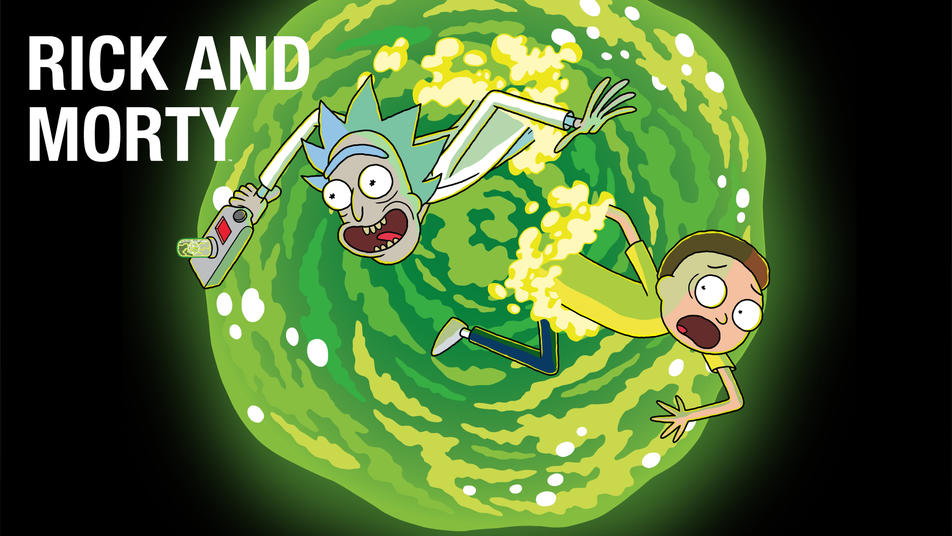
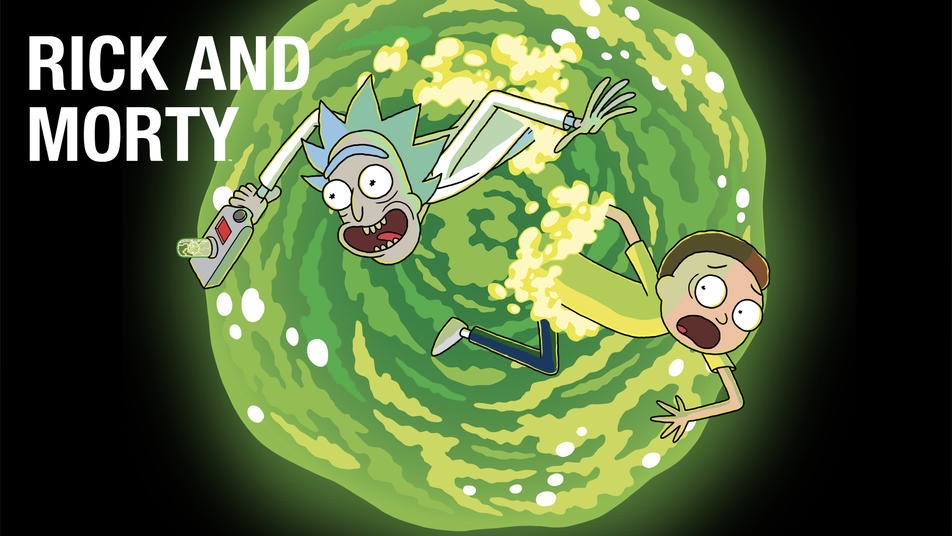
优化图片和格式

diff --git a/index.html b/index.html
@@ -12,80 +12,103 @@
     </style>
   </head>
   <body>
-    <h1>瑞克和莫蒂</h1>
-    <p>
-      天才兼疯子科学家Rick在失踪多年后突然回到女儿Beth的身边，并且在她的车库里搞了一个科学实验室。Rick有一把“传送门枪”，可以穿越到宇宙的各个次元。孙子Morty莫名其妙就成了他的助手，经常被拖进他的自制太空船内，跟他一同开展各种疯狂刺激的宇宙冒险。女儿女婿对他的疯狂行为感到不满，却又对这个天才科学家无可奈何。
-    </p>
-    <h2>播出信息</h2>
-    <ul>
-      <li>2013年12月2日，第一季首播；2014年1月，该剧宣布推出第二季</li>
-      <li>
-        2015年7月26日，第二季首播；2015年8月，AdultSwim续订了第三季，共10集
-      </li>
-      <li>
-        2017年4月1日，第三季首播；2018年5月，《瑞克和莫蒂》一口气续订了70集
-      </li>
-      <li>2019年11月10日，第四季首播。</li>
-    </ul>
-    <h2>获奖情况</h2>
-    <ol>
-      <li>2015年，安妮奖《最佳动画电视制作》提名</li>
-      <li>2017年，青少年票选奖《电视票选奖：动画类》提名</li>
-      <li>2018年，安妮奖《最佳动画电视制作》获奖</li>
-    </ol>
-    <h2>主要人物</h2>
-    <table>
-      <thead>
-        <tr>
-          <th>角色</th>
-          <th>关系</th>
-          <th>简介</th>
-        </tr>
-      </thead>
-      <tbody>
-        <tr>
-          <td>瑞克</td>
-          <td>莫蒂的外公</td>
-          <td>
-            一个奇怪和酗酒的疯狂科学家，使得他女儿的家人担心这会对莫蒂的安全造成威胁
-          </td>
-        </tr>
-        <tr>
-          <td>莫蒂</td>
-          <td>莫蒂他自己</td>
-          <td>善良但容易受伤害的14岁少年，经常被卷入Rick的疯狂冒险</td>
-        </tr>
-        <tr>
-          <td>夏末</td>
-          <td>莫蒂的姐姐</td>
-          <td>一个更传统和经常肤浅的少女，痴迷于改善她与同龄人的地位</td>
-        </tr>
-        <tr>
-          <td>贝丝</td>
-          <td>莫蒂的母亲</td>
-          <td>主要医治马的专业兽医，对于自己的婚姻生活并不满意</td>
-        </tr>
-        <tr>
-          <td>杰瑞</td>
-          <td>莫蒂的父亲</td>
-          <td>缺乏安全感、爱发牢骚，是家中最反对瑞克影响他家人的人</td>
-        </tr>
-      </tbody>
-    </table>
-    <h2>动画剧照</h2>
-    <div><img width="400" src="images/r&m1.jpg" alt="图一" /></div>
-    <div><img width="400" src="images/r&m2.jpg" alt="图二" /></div>
-    <div><img width="400" src="images/r&m3.jpg" alt="图三" /></div>
-    <h2>发行情况</h2>
-    <p>
-      《瑞克和莫蒂》已被Adult Swim在iTunes、Google
-      Play、Amazon、YouTube和Vudu上发行。
-    </p>
-    <p>该剧集也能透过有线电视提供商登录的方式在官方网站上收看。</p>
-    <p>
-      有些集数可在Adult Swim网站上免费播放，其余的则需要美国有线订阅才能收看。
-    </p>
-    <p>第一季于2015年6月在Hulu上架，第二季则于2016年6月起上架。</p>
-    <p>在部分国家也能透过Netflix来观看全季。</p>
+    <nav>
+      <ol>
+        <li><a href="#r&m">动画简介</a></li>
+        <li><a href="#pictures">动画剧照</a></li>
+        <li><a href="#episodes">播出时间</a></li>
+        <li><a href="#awards">获奖情况</a></li>
+        <li><a href="#characters">主要人物</a></li>
+        <li><a href="#medias">发行情况</a></li>
+      </ol>
+    </nav>
+
+    <section>
+      <h1 id="r&m">瑞克和莫蒂</h1>
+      <p>
+        天才兼疯子科学家Rick在失踪多年后突然回到女儿Beth的身边，并且在她的车库里搞了一个科学实验室。Rick有一把“传送门枪”，可以穿越到宇宙的各个次元。孙子Morty莫名其妙就成了他的助手，经常被拖进他的自制太空船内，跟他一同开展各种疯狂刺激的宇宙冒险。女儿女婿对他的疯狂行为感到不满，却又对这个天才科学家无可奈何。
+      </p>
+    </section>
+    <section>
+      <h2 id="pictures">动画剧照</h2>
+      <div><img width="400" src="images/r&m1.jpg" alt="图一" /></div>
+      <div><img width="400" src="images/r&m2.jpg" alt="图二" /></div>
+      <div><img width="400" src="images/r&m3.jpg" alt="图三" /></div>
+    </section>
+    <section>
+      <h2 id="episodes">播出时间</h2>
+      <ul>
+        <li>2013年12月2日，第一季首播；2014年1月，该剧宣布推出第二季</li>
+        <li>
+          2015年7月26日，第二季首播；2015年8月，AdultSwim续订了第三季，共10集
+        </li>
+        <li>
+          2017年4月1日，第三季首播；2018年5月，《瑞克和莫蒂》一口气续订了70集
+        </li>
+        <li>2019年11月10日，第四季首播。</li>
+      </ul>
+    </section>
+    <section>
+      <h2 id="awards">获奖情况</h2>
+      <ol>
+        <li>2015年，安妮奖《最佳动画电视制作》提名</li>
+        <li>2017年，青少年票选奖《电视票选奖：动画类》提名</li>
+        <li>2018年，安妮奖《最佳动画电视制作》获奖</li>
+      </ol>
+    </section>
+    <section>
+      <h2 id="characters">主要人物</h2>
+      <table>
+        <thead>
+          <tr>
+            <th>角色</th>
+            <th>关系</th>
+            <th>简介</th>
+          </tr>
+        </thead>
+        <tbody>
+          <tr>
+            <td>瑞克</td>
+            <td>莫蒂的外公</td>
+            <td>
+              一个奇怪和酗酒的疯狂科学家，使得他女儿的家人担心这会对莫蒂的安全造成威胁
+            </td>
+          </tr>
+          <tr>
+            <td>莫蒂</td>
+            <td>莫蒂他自己</td>
+            <td>善良但容易受伤害的14岁少年，经常被卷入Rick的疯狂冒险</td>
+          </tr>
+          <tr>
+            <td>夏末</td>
+            <td>莫蒂的姐姐</td>
+            <td>一个更传统和经常肤浅的少女，痴迷于改善她与同龄人的地位</td>
+          </tr>
+          <tr>
+            <td>贝丝</td>
+            <td>莫蒂的母亲</td>
+            <td>主要医治马的专业兽医，对于自己的婚姻生活并不满意</td>
+          </tr>
+          <tr>
+            <td>杰瑞</td>
+            <td>莫蒂的父亲</td>
+            <td>缺乏安全感、爱发牢骚，是家中最反对瑞克影响他家人的人</td>
+          </tr>
+        </tbody>
+      </table>
+    </section>
+    <section>
+      <h2 id="medias">发行情况</h2>
+      <p>
+        《瑞克和莫蒂》已被Adult Swim在iTunes、Google
+        Play、Amazon、YouTube和Vudu上发行。
+      </p>
+      <p>该剧集也能透过有线电视提供商登录的方式在官方网站上收看。</p>
+      <p>
+        有些集数可在Adult Swim网站上免费播放，其余的则需要美国有线订阅才能收看。
+      </p>
+      <p>第一季于2015年6月在Hulu上架，第二季则于2016年6月起上架。</p>
+      <p>在部分国家也能透过Netflix来观看全季。</p>
+    </section>
   </body>
 </html>
